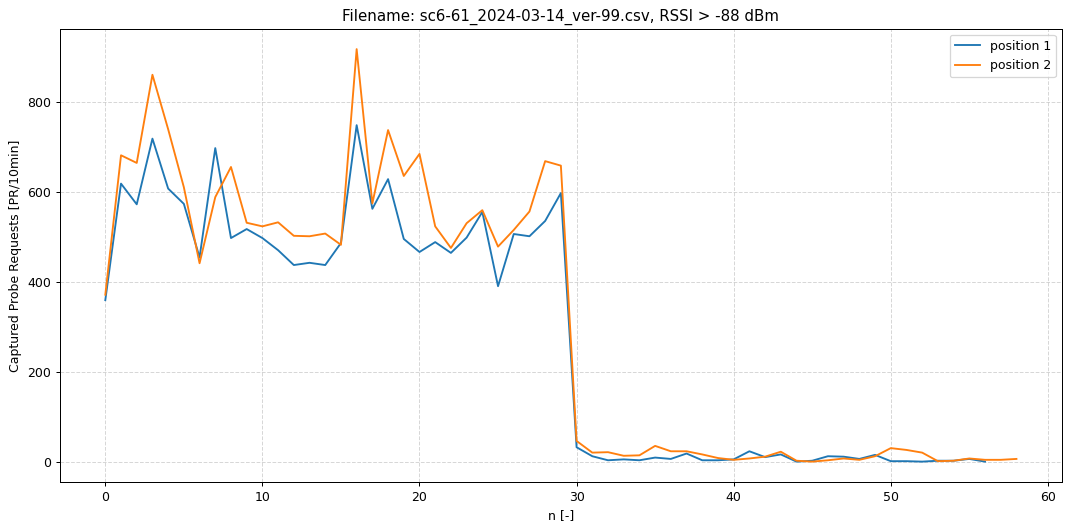
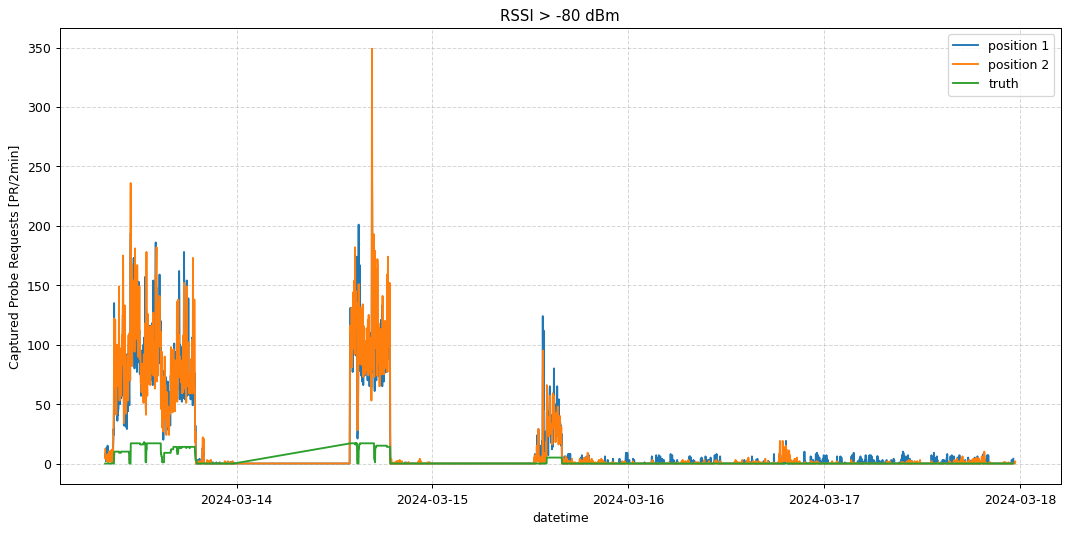
Visualization of several days

diff --git a/PYTHON/visualize.py b/PYTHON/visualize.py
@@ -6,60 +6,69 @@ except ImportError as e:
     raise SystemExit(1)
 
 
-def display_probes(filename, rssi_thr, interval="10min"):
-    """Read .csv file and display the number of all Probe Requests in time
+def display_probes(filenames, rssi_thr, interval="10min"):
+    """Read .csv file(s) and display the number of all Probe Requests in time
 
-    Read .csv file and display the number of Probe Requests below the RSSI
+    Read .csv file(s) and display the number of Probe Requests below the RSSI
     threshold, accumulated per time interval.
 
-    :param filename:  Input .csv file
-    :param rssi_thr:  Signal strength threshold
-    :param interval:  Time interval in minutes, e.g. 10min
+    :param filenames:  Input .csv file(s)
+    :param rssi_thr:   Signal strength threshold
+    :param interval:   Time interval in minutes, e.g. 10min
 
-    :type filename:   str
-    :type rssi_thr:   int
-    :type interval:   str
+    :type filenames:   list
+    :type rssi_thr:    int
+    :type interval:    str
 
-    :return:          None
+    :return:           None
     """
     print("")  # New line only
-    print(f"Read input file(s): {filename}")
-    print(f"RSSI threshold: {rssi_thr} dBm")
-    print(f"Create groups of {interval}... ", end="")
-
-    csv_file1 = "../DATA/sc6-61/_CSV/position_1/"+filename
-    csv_file2 = "../DATA/sc6-61/_CSV/position_2/"+filename
+    print(f"Read input file(s): {filenames}")
 
     # Load .csv file into a DataFrame
-    df1 = pd.read_csv(csv_file1, sep=";", decimal=".")
-    df2 = pd.read_csv(csv_file2, sep=";", decimal=".")
+    csv_files1 = [f"../DATA/sc6-61/_CSV/position_1/{x}" for x in filenames]
+    csv_files2 = [f"../DATA/sc6-61/_CSV/position_2/{x}" for x in filenames]
+    df1 = pd.concat(
+        (pd.read_csv(x, sep=";", decimal=".") for x in csv_files1),
+        ignore_index=True)
+    df2 = pd.concat(
+        (pd.read_csv(x, sep=";", decimal=".") for x in csv_files2),
+        ignore_index=True)
+    # df1 = pd.read_csv(csv_file1, sep=";", decimal=".")
+    # df2 = pd.read_csv(csv_file2, sep=";", decimal=".")
 
     # Convert timestamp to pandas datetime object
     df1["datetime"] = pd.to_datetime(df1["datetime"])
     df2["datetime"] = pd.to_datetime(df2["datetime"])
+    print(f"Number of probe requests @ position1: {len(df1):,}, position2: {len(df2):,}")
 
-    # Group data by intervals and filter low RSSI values
-    df_grp1 = df1[df1["rssi"] >= rssi_thr].groupby(
-        pd.Grouper(key="datetime", freq=interval)).size().reset_index(name="count")
-    df_grp2 = df2[df2["rssi"] >= rssi_thr].groupby(
-        pd.Grouper(key="datetime", freq=interval)).size().reset_index(name="count")
-
-    # Drop intervals with zero probe requests
-    df_grp1 = (df_grp1.loc[df_grp1["count"] > 0]).reset_index(drop=True)
-    df_grp2 = (df_grp2.loc[df_grp2["count"] > 0]).reset_index(drop=True)
+    # Filter low RSSI values
+    print(f"Remove data with RSSI < {rssi_thr} dBm... ", end="")
+    df1 = df1[df1["rssi"] >= rssi_thr].reset_index(drop=True)
+    df2 = df2[df2["rssi"] >= rssi_thr].reset_index(drop=True)
     print("Done")
+    print(f"Number of probe requests @ position1: {len(df1):,}, position2: {len(df2):,}")
+
+    # Group data by intervals
+    print(f"Create groups of {interval}... ", end="")
+    df_grp1 = df1.groupby(
+        pd.Grouper(key="datetime", freq=interval)).size().reset_index(name="count")
+    df_grp2 = df2.groupby(
+        pd.Grouper(key="datetime", freq=interval)).size().reset_index(name="count")
+    print("Done")
+
+    print(f"Number of groups @ position1: {len(df_grp1):,}, position2: {len(df_grp2):,}")
 
     # Figure size
     plt.figure(figsize=(12, 6), dpi=90, facecolor="white")
 
     # Plot values
-    x1 = list(df_grp1.index.values)
-    x2 = list(df_grp2.index.values)
-    plt.plot(x1, df_grp1["count"], label="position 1")
-    plt.plot(x2, df_grp2["count"], label="position 2")
+    plt.plot(df_grp1["datetime"], df_grp1["count"], label="position 1")
+    plt.plot(df_grp2["datetime"], df_grp2["count"], label="position 2")
+    plt.plot(df1["datetime"], df1["occupancy"], label="truth")
 
-    plt.title(f"Filename: {filename}, RSSI > {str(rssi_thr)} dBm")
-    plt.xlabel("n [-]")
+    plt.title(f"RSSI > {str(rssi_thr)} dBm")
+    plt.xlabel("datetime")
     plt.ylabel(f"Captured Probe Requests [PR/{interval}]")
 
     # Grid and legend
@@ -77,8 +86,14 @@ def display_probes(filename, rssi_thr, interval="10min"):
 
 
 def main():
-    filename = "sc6-61_2024-03-14_ver-99.csv"
-    display_probes(filename, rssi_thr=-88, interval="10min")
+    filenames = [
+        "sc6-61_2024-03-13_ver-99.csv",
+        "sc6-61_2024-03-14_ver-99.csv",
+        "sc6-61_2024-03-15_ver-99.csv",
+        "sc6-61_2024-03-16_ver-99.csv",
+        "sc6-61_2024-03-17_ver-99.csv",
+    ]
+    display_probes(filenames, rssi_thr=-80, interval="2min")
 
 
 if __name__ == "__main__":

diff --git a/README.md b/README.md
@@ -1,6 +1,6 @@
 # Probe request project
 
-Wi-Fi probe requests collected in lab `sc6-61` at Brno Univ. of Technology and stored in both, CSV and PCAP (compatible with [Wireshark](https://www.wireshark.org/) or Python [Scapy](https://scapy.readthedocs.io/en/latest/index.html)) files. The two [simple sniffers](https://gitlab.com/tbravenec/esp32-probe-sniffer) of probe pequests using ESP32 as a networking device with connected SD card as a storage were used at `position_1` and `position_2`.
+Wi-Fi probe requests collected in lab `sc6-61` at Brno Univ. of Technology and stored in both, CSV and PCAP (compatible with [Wireshark](https://www.wireshark.org/) or Python [Scapy](https://scapy.readthedocs.io/en/latest/index.html)) files. The two probe requests' [sniffers](https://gitlab.com/tbravenec/esp32-probe-sniffer) using ESP32 as a networking device with SD card as a storage were used at `position_1` and `position_2`.
 
 To work with PCAP files in Python, install the latest version of Scapy:
 
@@ -46,11 +46,11 @@ The dataset consists of the following columns:
 | `oui`        | Organization Unique Identifier               |
 | `occupancy`  | Number of individuals present in the lab     |
 
-*The `ssid` and a portion of the `src` MAC addresses were anonymized.
+*The `ssid` and a portion of the `src` MAC addresses were anonymized in this dataset.
 
 ## Anonymized MACs
 
-In the lab, there are several All-in-One computers with Wi-Fi. The following list of anonymized MACs must be removed from the dataset within the pre-processing operations.
+In the lab, there are several All-in-One computers with Wi-Fi. The following list of anonymized MACs should be removed from the dataset within the pre-processing operations.
 
 ```bash
 dc:fb:48:68:be:e4
